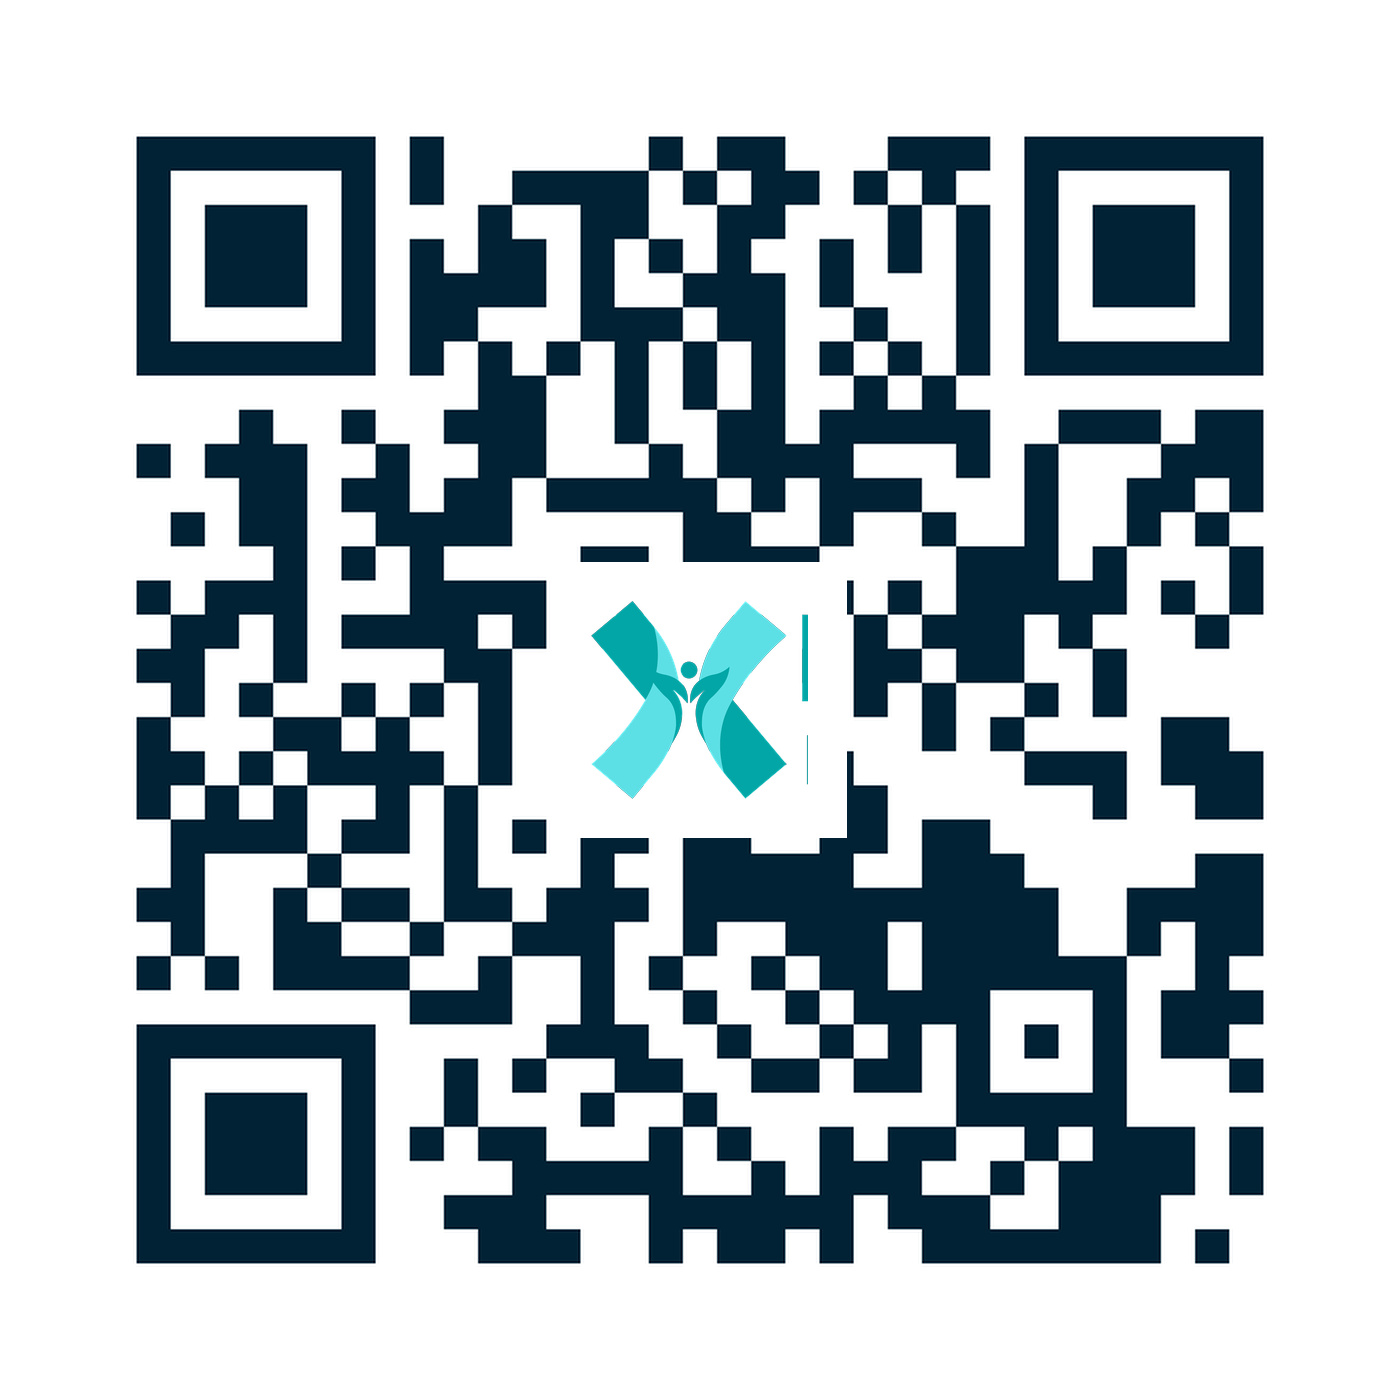
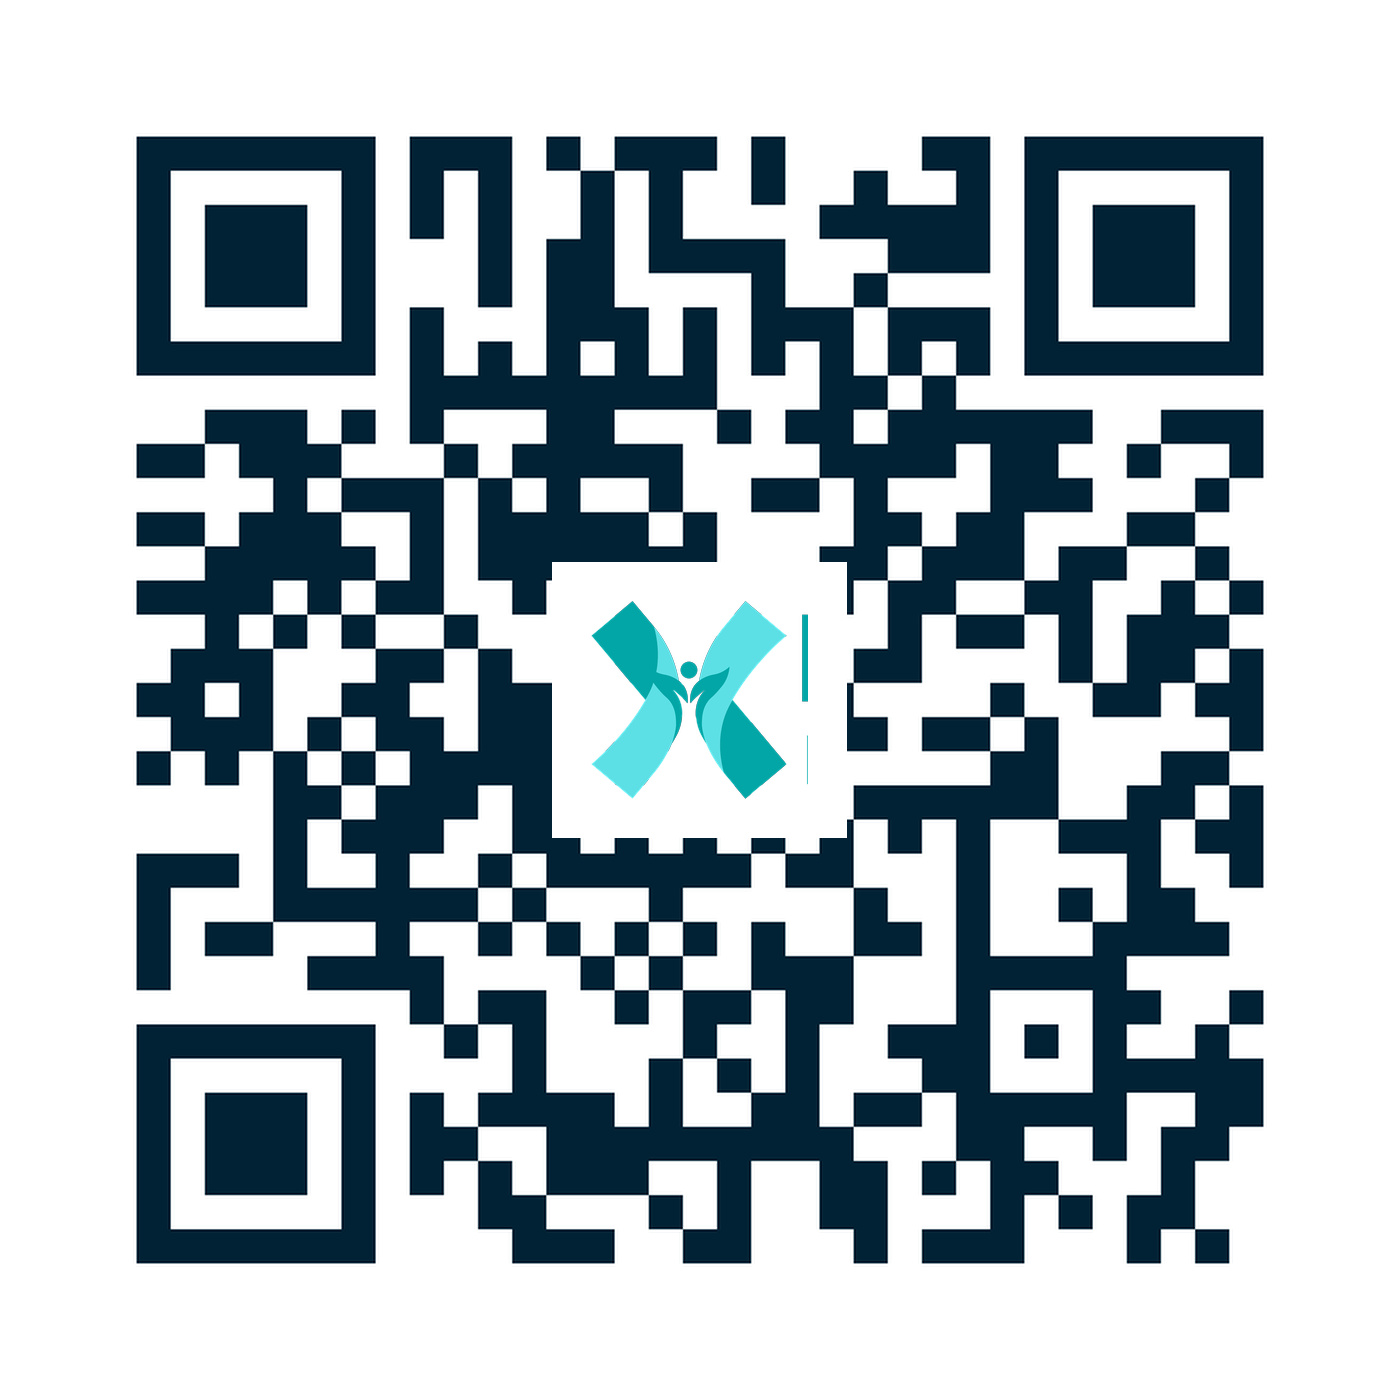
Cambia el hosting a Netlify (dmlmedica.netlify.app)
No hay acceso al panel de Cloudflare de dml-medica.com, asi que el subdominio
redes.dml-medica.com no es viable. Netlify no necesita DNS y su direccion
tampoco menciona a la agencia.

- URL nueva: https://dmlmedica.netlify.app/
- QR, cartel y el codigo que muestra la pagina regenerados y verificados
- SUBIR-A-NETLIFY/: carpeta lista para arrastrar a app.netlify.com/drop

Changed region(s): [[0.0921, 0.0921, 0.9214, 0.9214], [0.0921, 0.3686, 0.1229, 0.3993]]

diff --git a/_build/build.py b/_build/build.py
@@ -9,7 +9,7 @@ BASE = os.path.dirname(os.path.dirname(os.path.abspath(__file__)))
 BUILD = os.path.join(BASE, '_build')
 
 # ── 1. URL pública del portal (si cambia, edítala aquí y vuelve a correr) ──
-URL = 'https://redes.dml-medica.com/'
+URL = 'https://dmlmedica.netlify.app/'
 
 FUENTES = 'C:/Users/GEFORCE/AppData/Local/Microsoft/Windows/Fonts'
 MARCA   = 'C:/Users/GEFORCE/Desktop/CODEC CLAUDE/dml-design/brand'

diff --git a/README.md b/README.md
@@ -3,10 +3,10 @@
 Página tipo "link en bio" para DML Médica. Se comparte con un **código QR**: quien lo escanea
 llega a una sola pantalla con botones a todas las redes de la empresa.
 
-**URL pública:** https://redes.dml-medica.com/
+**URL pública:** https://dmlmedica.netlify.app/
 
-> Mientras el subdominio termina de configurarse, la página también responde en
-> https://mrcontentoficial-cloud.github.io/dml-redes/
+> Se aloja en Netlify porque no requiere tocar el DNS de dml-medica.com (no tenemos acceso
+> a ese panel). El repo de GitHub queda como fuente y respaldo.
 
 ## Qué incluye
 
@@ -41,20 +41,18 @@ Todo lo editable está marcado dentro del HTML con el comentario `✏ CAMBIA`
 
 Los cambios de texto y de enlaces se hacen directo en `index.html`; no hace falta compilar nada.
 
-## Dominio
+## Hosting
 
-El subdominio `redes.dml-medica.com` apunta a GitHub Pages con un **CNAME** en Cloudflare:
+La página vive en **Netlify**: `https://dmlmedica.netlify.app/`
 
-```
-Tipo    CNAME
-Nombre  redes
-Destino mrcontentoficial-cloud.github.io
-Proxy   DNS only (nube gris)
-TTL     Auto
-```
+Para publicar una versión nueva se arrastra la carpeta `SUBIR-A-NETLIFY/` (que solo contiene
+el `index.html`) sobre https://app.netlify.com/drop, o se sube desde el sitio ya creado en
+*Deploys → Drag and drop*. El nombre del sitio en Netlify **tiene que seguir siendo `dmlmedica`**:
+es el que trae grabado el código QR impreso.
 
-El archivo `CNAME` de este repo es el que le dice a GitHub Pages qué dominio atender: si se
-borra, el sitio vuelve a responder solo en la dirección `github.io`.
+Se descartó `redes.dml-medica.com` porque exige agregar un CNAME en el Cloudflare del dominio
+y nadie del equipo tiene acceso a ese panel. Si algún día se consigue, el cambio es: CNAME
+`redes` → `mrcontentoficial-cloud.github.io` (Proxy: DNS only) y reapuntar el QR.
 
 ## Cómo regenerar (solo si cambia la URL, el logo o el QR)
 
